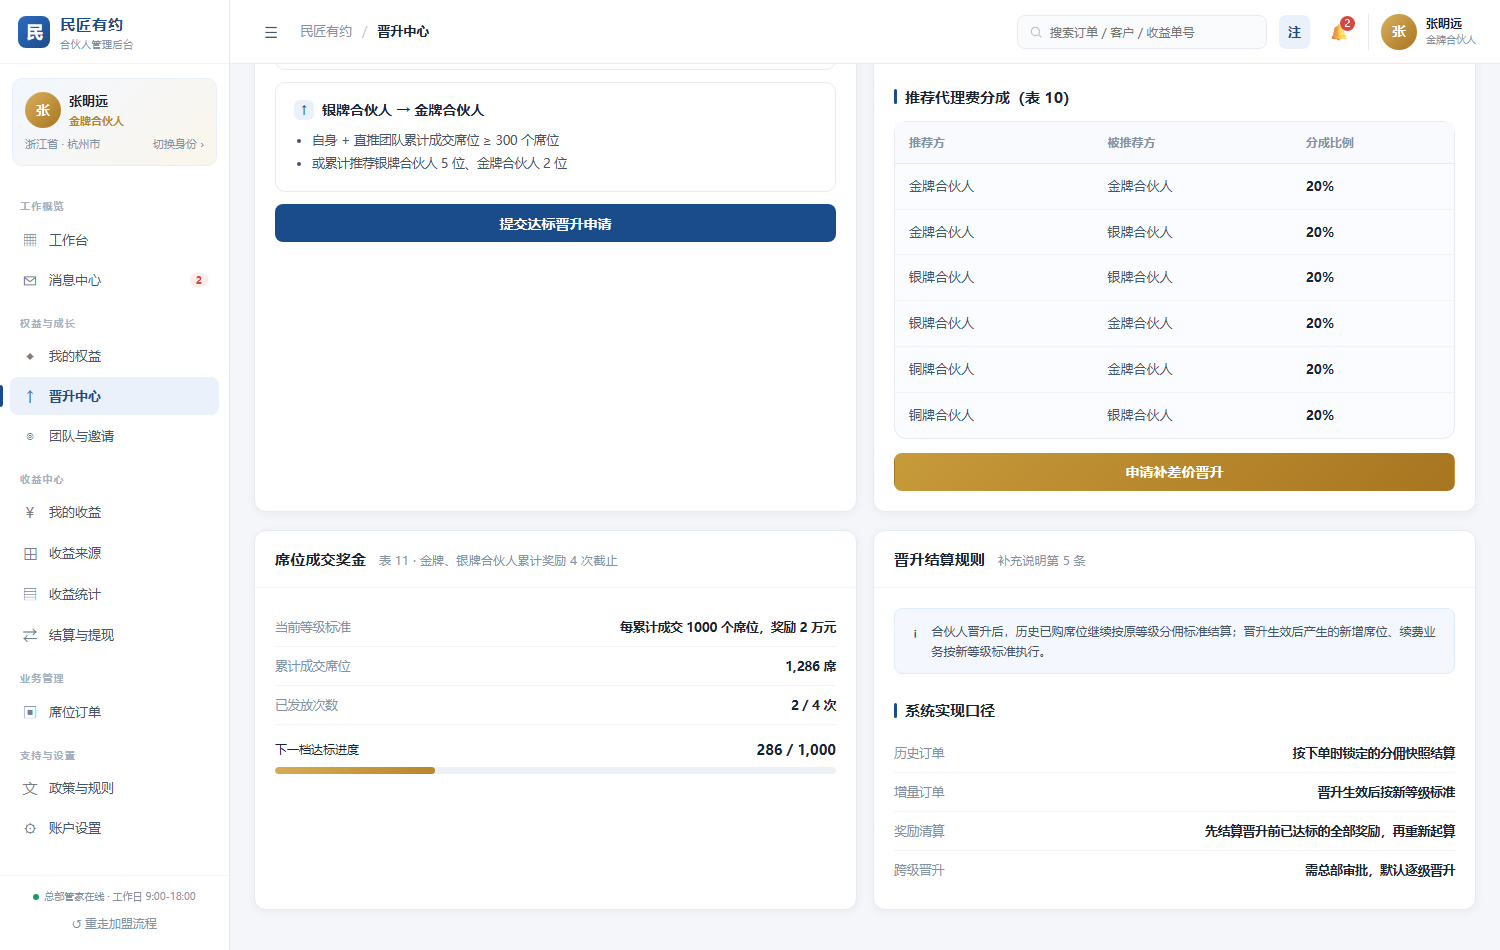
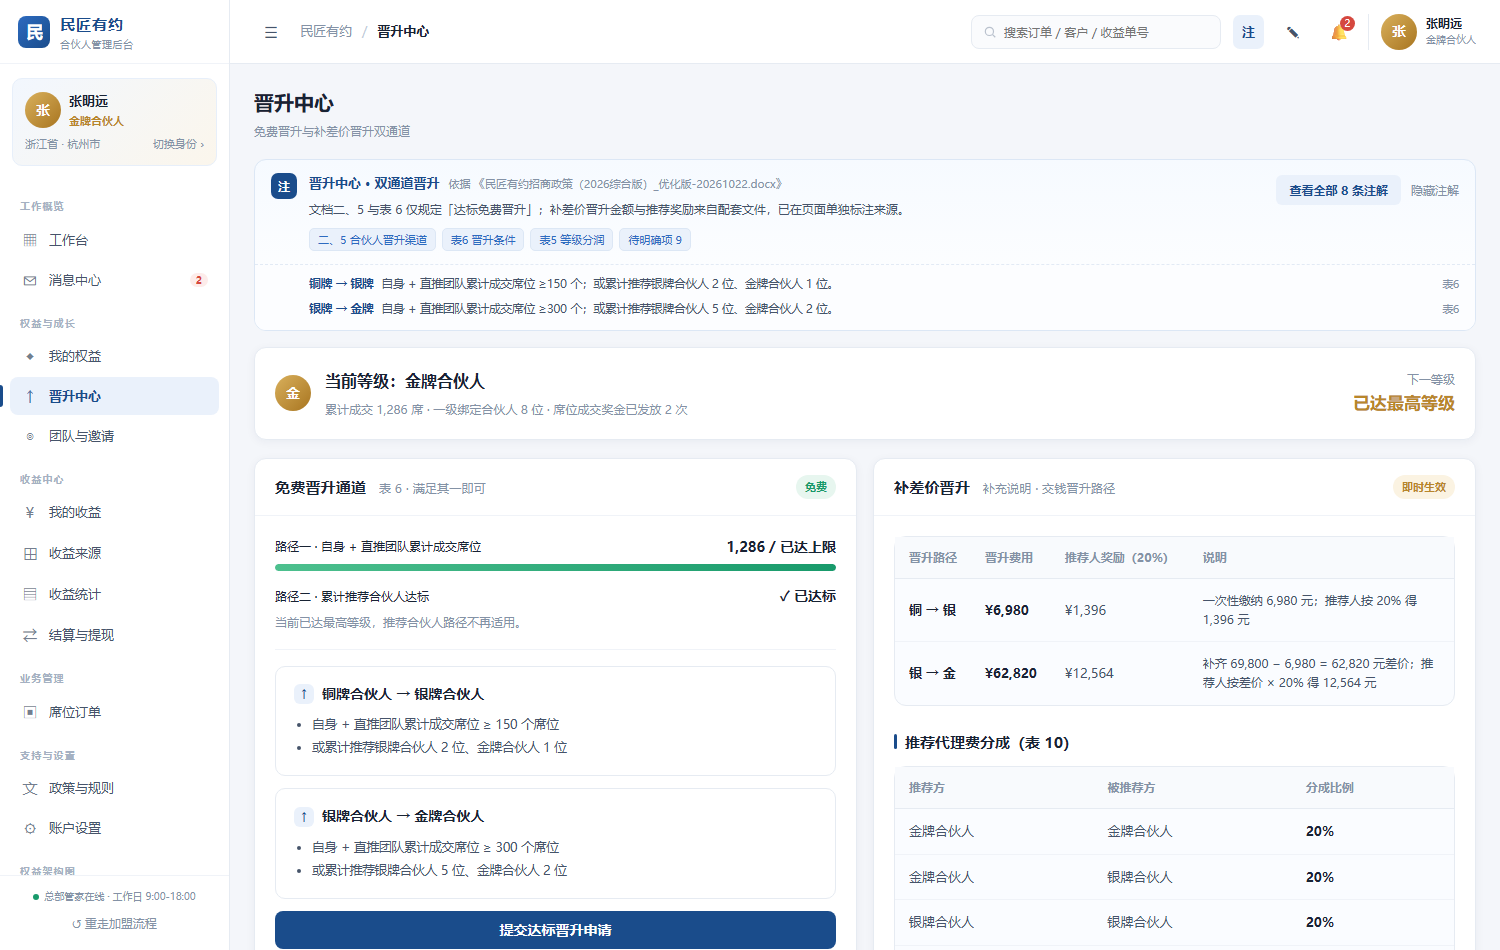
晋升中心补充累计推荐合伙人达标统计

diff --git a/民匠有约合伙人后台管理系统.html b/民匠有约合伙人后台管理系统.html
@@ -1235,6 +1235,7 @@ const A = {
       ['铜牌 → 银牌','自身 + 直推团队累计成交席位 ≥150 个；或累计推荐银牌合伙人 2 位、金牌合伙人 1 位。','表6'],
       ['银牌 → 金牌','自身 + 直推团队累计成交席位 ≥300 个；或累计推荐银牌合伙人 5 位、金牌合伙人 2 位。','表6'],
       ['免费晋升','「城市合伙人累计成交席位或累计推荐达标后，可免费晋升至更高等级」。','二、5'],
+      ['推荐达标统计','免费晋升通道按表 6 同时展示两条路径：路径一累计成交席位、路径二累计推荐合伙人（铜→银需银牌 2 位 + 金牌 1 位；银→金需银牌 5 位 + 金牌 2 位），人数取自一级绑定团队，属系统实现口径。','表6 / 系统实现'],
       ['累计口径待明确','文档待明确：「晋升渠道里的累计成交席位，累计是指新增还是新增加续费？」','待明确项 9',1],
       ['补差价金额','补差价 6,980 / 62,820 元、推荐奖励 1,396 / 12,564 元来自《金银铜合伙人分佣体系补充说明》与《服务商问题梳理》；表 6 只规定免费晋升。','配套文件'],
       ['晋升后结算','本文档未规定晋升后历史席位如何结算；系统按补充说明「历史席位按原等级、新增及续费按新等级」执行，需总部书面确认。','配套文件',1],
@@ -1773,14 +1774,27 @@ PAGES.upgrade={
   html(a){
     const l=P.levels[a.level], award=P.seatAward[a.level]||P.seatAward.bronze;
     const progress=l&&l.key==='bronze'?Math.min(100,a.seats/150*100):(l&&l.key==='silver'?Math.min(100,a.seats/300*100):100);
+    /* 免费晋升第二条路径：累计推荐合伙人（表 6） */
+    const refTarget=(l&&l.key==='bronze')?{silver:2,gold:1,seats:150,next:'银牌合伙人'}:(l&&l.key==='silver')?{silver:5,gold:2,seats:300,next:'金牌合伙人'}:null;
+    const silverCnt=(a.team||[]).filter(t=>t.level==='银牌合伙人').length;
+    const goldCnt=(a.team||[]).filter(t=>t.level==='金牌合伙人').length;
+    const refDone=refTarget?(silverCnt>=refTarget.silver&&goldCnt>=refTarget.gold):true;
+    const refPct=refTarget?Math.min(100,Math.min(silverCnt/refTarget.silver,goldCnt/refTarget.gold)*100):100;
     return '<div class="card"><div class="card-bd"><div class="row between wrap" style="gap:16px">'+
       '<div class="row" style="gap:14px"><div class="avatar gold">'+esc(l?l.short:'顾')+'</div><div><b style="font-size:16px">当前等级：'+levelName(a)+'</b><div class="small muted mt6">累计成交 '+num(a.seats)+' 席 · 一级绑定合伙人 '+a.teamCount+' 位 · 席位成交奖金已发放 '+a.awardTimes+' 次</div></div></div>'+
       '<div style="text-align:right"><div class="small muted">下一等级</div><b style="font-size:17px;color:var(--gold)">'+esc(a.upgradeNext==='—'?'已达最高等级':a.upgradeNext)+'</b></div></div></div></div>'+
 
     '<div class="grid g2 mt18">'+
       '<div class="card">'+cardHead('免费晋升通道','表 6 · 满足其一即可','<span class="tag tag-green">免费</span>')+'<div class="card-bd">'+
-        '<div class="between mb6"><span class="small">自身 + 直推团队累计成交席位</span><b class="num">'+num(a.seats)+' / '+(l&&l.key==='bronze'?'150':(l&&l.key==='silver'?'300':'已达上限'))+'</b></div>'+
+        '<div class="between mb6"><span class="small">路径一 · 自身 + 直推团队累计成交席位</span><b class="num">'+num(a.seats)+' / '+(l&&l.key==='bronze'?'150':(l&&l.key==='silver'?'300':'已达上限'))+'</b></div>'+
         '<div class="progress '+(progress>=100?'green':'gold')+'"><i style="width:'+progress+'%"></i></div>'+
+        '<div class="between mb6 mt14"><span class="small">路径二 · 累计推荐合伙人达标</span><b class="num">'+(refDone?'✓ 已达标':'未达标')+'</b></div>'+
+        (refTarget
+          ? '<div class="kv"><span>累计推荐银牌合伙人</span><b class="num">'+silverCnt+' / '+refTarget.silver+' 位'+(silverCnt>=refTarget.silver?' ✓':'')+'</b></div>'+
+            '<div class="kv"><span>累计推荐金牌合伙人</span><b class="num">'+goldCnt+' / '+refTarget.gold+' 位'+(goldCnt>=refTarget.gold?' ✓':'')+'</b></div>'+
+            '<div class="progress '+(refDone?'green':'gold')+' mt6"><i style="width:'+refPct+'%"></i></div>'+
+            '<div class="small muted mt6">同时满足银牌 '+refTarget.silver+' 位、金牌 '+refTarget.gold+' 位即可免费晋升至'+refTarget.next+'；一级绑定合伙人共 '+((a.team||[]).length)+' 位。</div>'
+          : '<div class="small muted">当前已达最高等级，推荐合伙人路径不再适用。</div>')+
         '<div class="divider"></div>'+
         P.upgrades.map(x=>'<div class="rule-block"><h4><span class="rn">↑</span>'+x.from+' → '+x.to+'</h4><ul>'+x.conditions.map(c=>'<li>'+c+'</li>').join('')+'</ul></div>').join('')+
         '<button class="btn btn-primary btn-block" data-act="upgradeApply" data-v="free">提交达标晋升申请</button>'+
